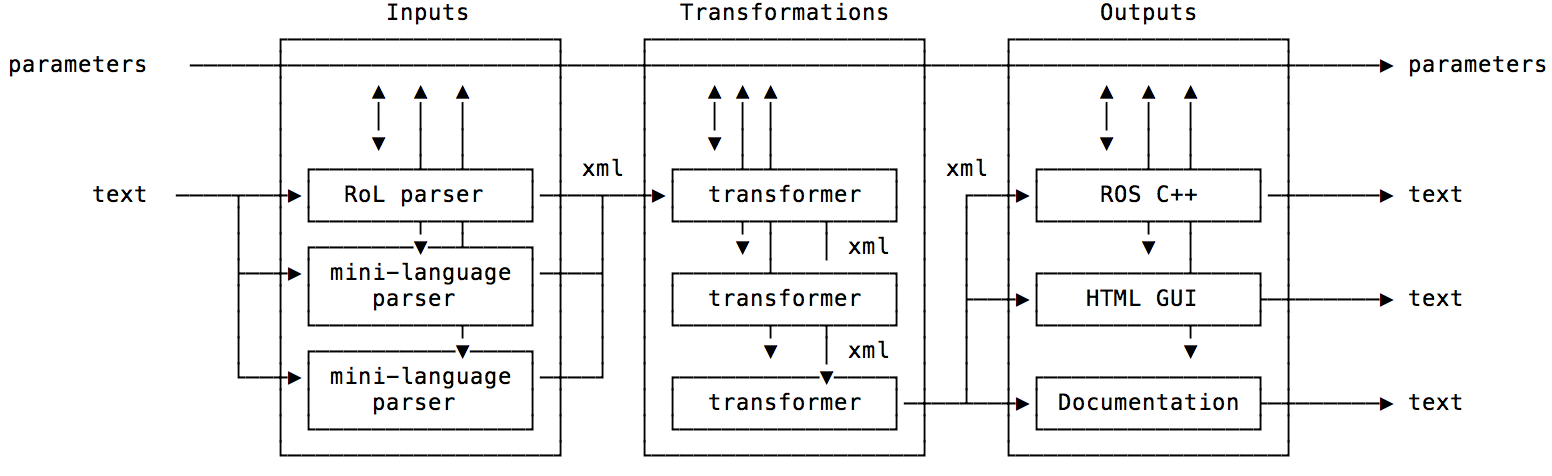
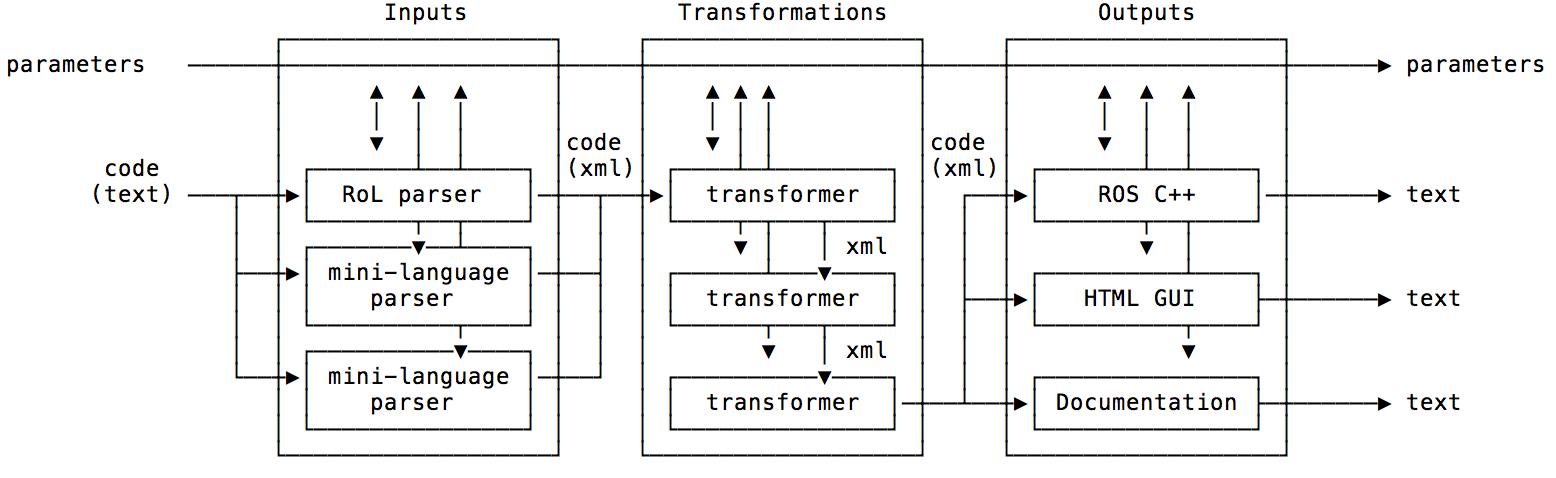
bug fixes and more text

diff --git a/RoboticsLanguage/Base/Utilities.py b/RoboticsLanguage/Base/Utilities.py
@@ -818,9 +818,13 @@ def serialise(code, parameters, keywords, language, filters=default_template_eng
       for key, value in filters.iteritems():
         template.globals[key] = value
 
+      # get all children that are not 'option'
+      children_elements = code.xpath('*[not(self::option)]')
+
       # render tags according to dictionary
-      snippet = template.render(children=map(lambda x: serialise(x, parameters, keywords, language, filters), code.getchildren()),
-                                childrenTags=map(lambda x: x.tag, code.getchildren()),
+      snippet = template.render(children=map(lambda x: serialise(x, parameters, keywords, language, filters), children_elements),
+                                childrenTags=map(lambda x: x.tag, children_elements),
+                                options = dict(zip(code.xpath('option/@name'),map(lambda x: serialise(x, parameters, keywords, language, filters), code.xpath('option/*')))),
                                 attributes=code.attrib,
                                 parentAttributes=code.getparent().attrib,
                                 parentTag=code.getparent().tag,

diff --git a/RoboticsLanguage/Transformers/LinearAlgebra/Language.py b/RoboticsLanguage/Transformers/LinearAlgebra/Language.py
@@ -294,9 +294,9 @@ language = {
             'argumentTypes': manySameBooleans,
             'returnType': returnBoolean
         },
-        'RoL': {
-            'input': {
-                'infix': {'key': ['or', '∨'],
+        'input': {
+            'RoL': {
+                          'infix': {'key': ['or', '∨'],
                           'order': 400,
                           'flat': True}
             }

diff --git a/RoboticsLanguage/Transformers/Base/Language.py b/RoboticsLanguage/Transformers/Base/Language.py
@@ -513,6 +513,8 @@ language = {
     },
 
     'if': {
+      'output':
+      {'RosCpp': 'if({{children[0]}})\n{ {{children[1]}} }\n {% if children|length>2 %}else \n{ {{children[2]}} }{% endif %}'},
         'localisation':
         {
             'pt': 'se',

diff --git a/RoboticsLanguage/Outputs/RosCpp/Language.py b/RoboticsLanguage/Outputs/RosCpp/Language.py
@@ -180,7 +180,7 @@ language = {
     'print': {
         'output':
         {
-            'RosCpp': 'ROS_INFO_STREAM({{children|first}})',
+            'RosCpp': 'ROS_INFO_STREAM({{children|join(" << ")}})',
         },
     },
 

diff --git a/RoboticsLanguage/Documentation/Compiler/Philosophy/README.md b/RoboticsLanguage/Documentation/Compiler/Philosophy/README.md
@@ -33,28 +33,30 @@
 
 ![](../../Assets/compiler-flow.png)
 
+## Definitions
+
+The `rol` compiler implements a generic engine that works by processing two types of information, **code** and **parameters**, through three steps: **input**, **transformations**, and **output**.
 
 
-The `rol` compiler implements a generic engine that works by processing two types of information, **code** and **parameters**, thought three steps: **input**, **transformations**, and **output**.
+In this document we will use the words **input** or **parser** interchangeably, meaning the process of transforming text written in a particular language to an [abstract syntax tree](https://en.wikipedia.org/wiki/Abstract_syntax_tree) implemented in [xml](https://en.wikipedia.org/wiki/XML), i.e. the internal representation of the source code.
 
-
-
-
-In this document we will use the words **inputs** or **parser** interchangeably, meaning the process of transforming text written in a particular language to an [abstract syntax tree](https://en.wikipedia.org/wiki/Abstract_syntax_tree) implemented in [xml](https://en.wikipedia.org/wiki/XML), i.e. the internal representation of the source code.
-
-The words **outputs** and **code generation** mean the process of transforming the abstract syntax tree into text documents, such as, c++ code, HTML pages, etc.
+The words **output** and **code generation** mean the process of transforming the abstract syntax tree into text documents, such as, c++ code, HTML pages, etc.
 
 The word **code** refers to the abstract syntax tree implemented in **xml**. The xml structure was chosen for its ability to store attributes on each tag. Attributes can be used by each module to store information for a particular element of the abstract syntax tree, acting as _an annotation_ that can be used for decision making or code generation.
 
-The word **parameters** refer to generic information, independent of the code, used in all the processing steps of the compiler.
+The word **parameters** refer to generic information, independent of the code, used in all the processing steps of the compiler. Parameters change the behaviour of the processing functions.
 
 The words **plug-in** or **modules** refer to processing blocks that operate on text (for input or output), code, or the parameters. The `rol` compiler is designed to be modular, composed of modules that are sequenced to process from inputs to outputs.
+
+To summarise, the process is:
+  1. Code (written in text) is parsed into the abstract syntax tree (represented in xml)
+  2. Transformers annotate the abstract syntax tree
+  3. The abstract syntax tree is output into various types of text formats.
 
 
 ## The parameters
 
-Parameters are any piece of information that may be relevant for the parsing, transformation, and code generation parts of the compiler.
-Parameters are represented internally by a python dictionary.
+Parameters are any piece of information that may be relevant for the parsing, transformation, and code generation parts of the compiler. Parameters change the behaviour of the processing functions. Parameters are represented internally by a python dictionary.
 
 All parameters can be assigned to command line flags that are loaded when the compiler is called. Parameters can also be loaded via YAML files.
 

diff --git a/RoboticsLanguage/Documentation/Language/Philosophy/README.md b/RoboticsLanguage/Documentation/Language/Philosophy/README.md
@@ -1,1 +1,78 @@
 # The Robotics Language philosophy
+
+The Robotics Language (RoL) is in its simplest form described by function composition.
+
+```coffeescript
+node(
+  print("hello world!")
+)
+```
+
+Each element of the language has a function form. For example `a + b` is the same as `plus(a,b)`. In fact in RoL **everything is a function**. For example the computation `r = a + b * x + c * x^2` is written as:
+
+```coffeescript
+assign(r, plus(a, times(b, x), times(b, power(x,2))))
+```
+
+The function composition representation is in essence one to one with the internal abstract syntax tree representation.
+
+```xml
+<assign>
+  <variable name="r"/>
+  <plus>
+    <variable name="a"/>
+    <times>
+      <variable name="b"/>
+      <variable name="x"/>
+    </times>
+    <times>
+      <variable name="b"/>
+      <power>
+        <variable name="x"/>
+        <integer>2</integer>
+      </power>
+    </times>
+  </plus>
+</assign>
+```
+
+
+On top of the base function composition representation other types of operators are introduced to make the RoL more human readable.
+
+- infix operators (`+`, `-`, `*`, `=`, `:`, `∈`, etc)
+- bracket operators (`[]`, `{}`, `""`, etc)
+- alternative function names (`ℤ`, `ℕ`, `ℝ`, etc)
+- special forms (function definition, etc)
+
+RoL programs are written to resemble hand-written mathematics as much as possible, within the limitations of unicode text:
+
+```coffeescript
+node(
+  name:"example Fibonacci",
+  definitions: block(
+
+    # Definition of variables
+    a ∈ ℤ = -1,
+    b ∈ ℝ = 1.3,
+    c ∈ 𝔹 = true,
+    d ∈ Strings = "3434",
+    e ∈ Signals(Strings, rosTopic:'/test'),
+
+    # Definition of a function
+    define Fibonacci(n ∈ ℕ) -> ℕ:
+      if(n ≡ 0 ∨ n ≡ 1,
+          return(n),
+          return(Fibonacci(n-1)+Fibonacci(n-2))
+        )
+  ),
+
+  # Node structure elements
+  initialise: block(
+
+    result ∈ ℤ = Fibonacci(10),
+
+    print("The Fibonacci number 10 is ",result)
+
+  )
+)
+```
